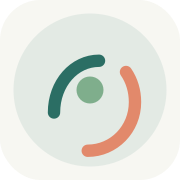
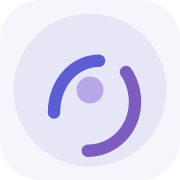
Rebrand to periwinkle/lavender palette; fix footer social links jumping to top
- tailwind.config.ts: thera.primary/secondary/accent/ember/bg/ink/muted
  recolored to a periwinkle (#5B5DD1) + lavender (#B7A6E8) palette, plus a
  deeper violet accent (#7C5CBF). Semantic success/warning/danger colors
  left untouched on purpose -- recoloring form-validation states purple
  would hurt usability.
- Every hardcoded hex tied to the old green/terracotta palette updated to
  match: gradient text, glow/breathing-ring utilities, SVG gradient stops,
  radial background washes, global-error fallback page, PWA theme-color
  meta tag and manifest.json.
- Regenerated favicon.svg, favicon.ico, and apple-touch-icon.png from the
  new palette (via rsvg-convert + ImageMagick).
- Footer: social icons pointed at '#' were jumping the page to top on
  click with no real destination. They now no-op instead of jumping until
  real profile URLs are added -- ping me the actual Twitter/LinkedIn/
  GitHub/Instagram URLs and I'll wire them up properly.

Changed region(s): [[0.25, 0.2778, 0.5833, 0.6667], [0.4444, 0.3611, 0.8056, 0.8889]]

diff --git a/app/globals.css b/app/globals.css
@@ -65,7 +65,7 @@
 @layer utilities {
   .text-gradient {
     @apply bg-clip-text text-transparent;
-    background-image: linear-gradient(100deg, #2B6E64 0%, #7FAE8C 100%);
+    background-image: linear-gradient(100deg, #5B5DD1 0%, #B7A6E8 100%);
   }
 
   .glass {
@@ -77,16 +77,16 @@
   }
 
   .glow-primary {
-    box-shadow: 0 8px 30px rgba(43, 110, 100, 0.14), 0 2px 8px rgba(43, 110, 100, 0.08);
+    box-shadow: 0 8px 30px rgba(91, 93, 209, 0.14), 0 2px 8px rgba(91, 93, 209, 0.08);
   }
 
   .glow-accent {
-    box-shadow: 0 8px 30px rgba(226, 137, 107, 0.16), 0 2px 8px rgba(226, 137, 107, 0.08);
+    box-shadow: 0 8px 30px rgba(124, 92, 191, 0.16), 0 2px 8px rgba(124, 92, 191, 0.08);
   }
 
   .gradient-border {
     position: relative;
-    background: linear-gradient(100deg, #2B6E64, #7FAE8C);
+    background: linear-gradient(100deg, #5B5DD1, #B7A6E8);
     padding: 1px;
   }
 
@@ -121,8 +121,8 @@
     background-image:
       repeating-radial-gradient(
         circle at center,
-        rgba(43, 110, 100, 0.10) 0px,
-        rgba(43, 110, 100, 0.10) 1px,
+        rgba(91, 93, 209, 0.10) 0px,
+        rgba(91, 93, 209, 0.10) 1px,
         transparent 1px,
         transparent 64px
       );
@@ -132,8 +132,8 @@
     background-image:
       repeating-radial-gradient(
         circle at center,
-        rgba(226, 137, 107, 0.12) 0px,
-        rgba(226, 137, 107, 0.12) 1px,
+        rgba(124, 92, 191, 0.12) 0px,
+        rgba(124, 92, 191, 0.12) 1px,
         transparent 1px,
         transparent 64px
       );

diff --git a/tailwind.config.ts b/tailwind.config.ts
@@ -44,15 +44,15 @@ const config: Config = {
           foreground: "hsl(var(--card-foreground))",
         },
         thera: {
-          primary: "#2B6E64",
-          secondary: "#7FAE8C",
-          accent: "#E2896B",
-          ember: "#D9A15B",
-          bg: "#F7F7F2",
+          primary: "#5B5DD1",
+          secondary: "#B7A6E8",
+          accent: "#7C5CBF",
+          ember: "#9B87D9",
+          bg: "#F6F5FC",
           card: "#FFFFFF",
-          ink: "#16211C",
-          text: "#16211C",
-          muted: "#68766F",
+          ink: "#1D1B33",
+          text: "#1D1B33",
+          muted: "#6E6A85",
           success: "#4F9D6E",
           warning: "#D9A15B",
           danger: "#D9614F",

diff --git a/app/global-error.tsx b/app/global-error.tsx
@@ -31,7 +31,7 @@ export default function GlobalError({
             <h1 style={{ fontSize: "1.5rem", fontWeight: 700, marginBottom: "0.75rem" }}>
               Something went wrong
             </h1>
-            <p style={{ color: "#68766F", marginBottom: "2rem" }}>
+            <p style={{ color: "#6E6A85", marginBottom: "2rem" }}>
               The app hit an unexpected error. Reloading usually fixes it.
             </p>
             <button
@@ -39,7 +39,7 @@ export default function GlobalError({
               style={{
                 padding: "0.625rem 1.25rem",
                 borderRadius: "9999px",
-                background: "#2B6E64",
+                background: "#5B5DD1",
                 color: "white",
                 fontSize: "0.875rem",
                 fontWeight: 500,

diff --git a/app/sections/multi-tenant.tsx b/app/sections/multi-tenant.tsx
@@ -58,8 +58,8 @@ export function MultiTenantSection() {
               <svg className="absolute inset-0 w-full h-full pointer-events-none opacity-20" style={{ zIndex: -1 }}>
                 <defs>
                   <linearGradient id="lineGrad" x1="0%" y1="0%" x2="100%" y2="100%">
-                    <stop offset="0%" stopColor="#2B6E64" />
-                    <stop offset="100%" stopColor="#7FAE8C" />
+                    <stop offset="0%" stopColor="#5B5DD1" />
+                    <stop offset="100%" stopColor="#B7A6E8" />
                   </linearGradient>
                 </defs>
               </svg>

diff --git a/app/components/footer.tsx b/app/components/footer.tsx
@@ -128,6 +128,9 @@ export function Footer() {
                 <a
                   key={social.name}
                   href={social.href}
+                  target={social.href === "#" ? undefined : "_blank"}
+                  rel={social.href === "#" ? undefined : "noopener noreferrer"}
+                  onClick={social.href === "#" ? (e) => e.preventDefault() : undefined}
                   className="p-2.5 rounded-lg bg-thera-ink/5 hover:bg-thera-ink/10 transition-colors text-thera-muted hover:text-thera-text"
                   aria-label={social.name}
                 >

diff --git a/app/layout.tsx b/app/layout.tsx
@@ -85,7 +85,7 @@ export default function RootLayout({
         <link rel="icon" href="/favicon.svg" type="image/svg+xml" />
         <link rel="apple-touch-icon" href="/apple-touch-icon.png" />
         <link rel="manifest" href="/manifest.json" />
-        <meta name="theme-color" content="#2B6E64" />
+        <meta name="theme-color" content="#5B5DD1" />
         <script
           type="application/ld+json"
           dangerouslySetInnerHTML={{

diff --git a/app/sections/cta.tsx b/app/sections/cta.tsx
@@ -9,7 +9,7 @@ export function CTASection() {
     <section className="relative py-24 lg:py-28 overflow-hidden">
       <div className="absolute inset-0">
         <div className="absolute top-1/2 left-1/2 -translate-x-1/2 -translate-y-1/2 w-[1000px] h-[1000px] bg-gradient-to-r from-thera-primary/10 via-thera-secondary/10 to-thera-accent/10 rounded-full blur-3xl" />
-        <div className="absolute inset-0 bg-[radial-gradient(ellipse_at_center,transparent_0%,#F7F7F2_70%)]" />
+        <div className="absolute inset-0 bg-[radial-gradient(ellipse_at_center,transparent_0%,#F6F5FC_70%)]" />
       </div>
 
       <div className="relative max-w-4xl mx-auto px-4 sm:px-6 lg:px-8 text-center">

diff --git a/app/sections/hero.tsx b/app/sections/hero.tsx
@@ -38,7 +38,7 @@ export function HeroSection() {
         <BreathingRings />
         <div className="absolute top-24 left-10 w-[28rem] h-[28rem] bg-thera-primary/10 rounded-full blur-3xl" />
         <div className="absolute bottom-10 right-10 w-[24rem] h-[24rem] bg-thera-accent/10 rounded-full blur-3xl" />
-        <div className="absolute inset-0 bg-[radial-gradient(ellipse_at_center,transparent_0%,#F7F7F2_72%)]" />
+        <div className="absolute inset-0 bg-[radial-gradient(ellipse_at_center,transparent_0%,#F6F5FC_72%)]" />
       </div>
 
       <div className="relative max-w-7xl mx-auto px-4 sm:px-6 lg:px-8 py-16 lg:py-24">